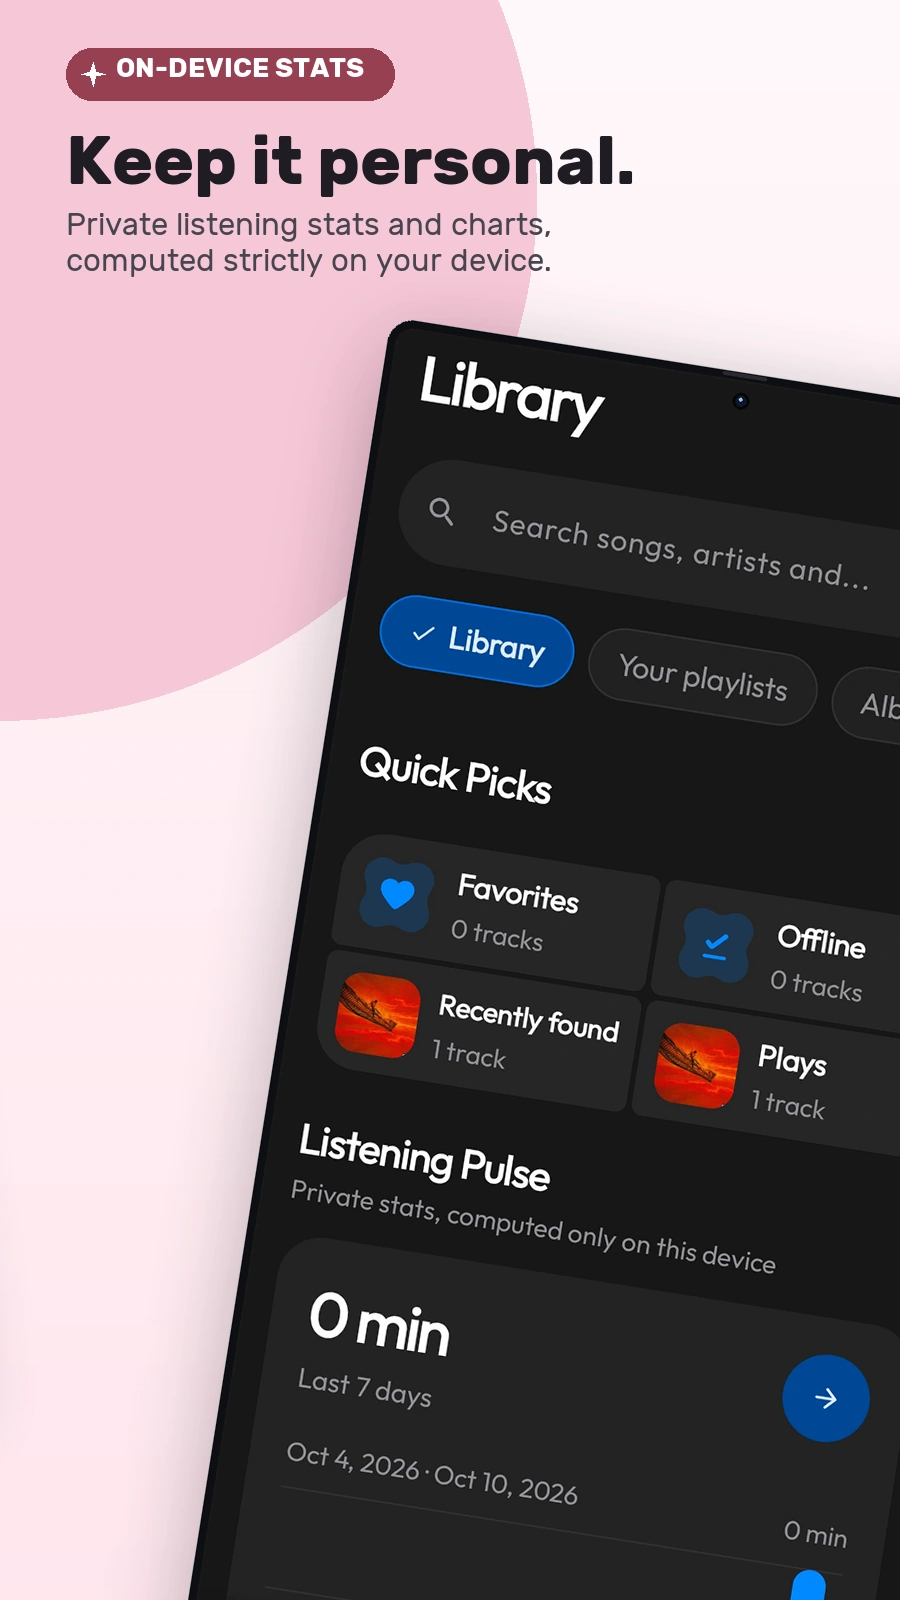
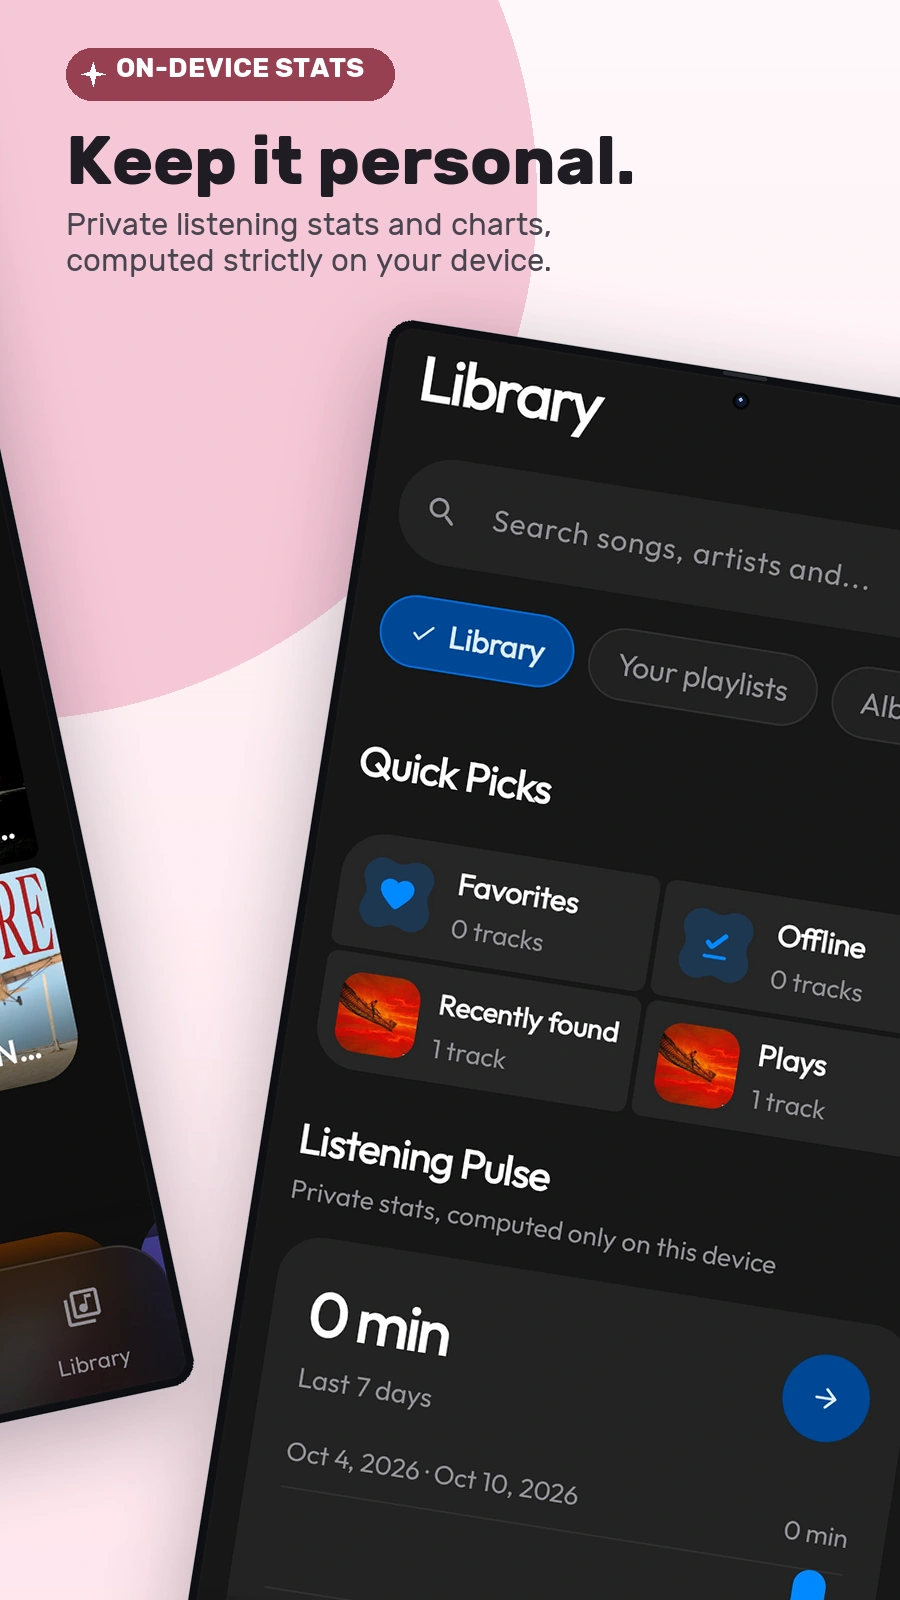
docs: restore paired orbit composition

Changed region(s): [[0.0, 0.25, 0.2178, 0.9375]]

diff --git a/scripts/generate_showcase_assets.py b/scripts/generate_showcase_assets.py
@@ -143,9 +143,9 @@ M3_PAIR_PALETTES = [
 M3_PHONE_OVERRIDES = {
     "Screenshot_20261012_193022_LEVYRA.jpg": {
         "target_w": 720,
-        "x": -35,
+        "x": 110,
         "y": -100,
-        "angle": 8,
+        "angle": 12,
     },
 }
 

diff --git a/README.md b/README.md
@@ -128,7 +128,7 @@ Enhanced Audio is on by default and can be turned off in Audio Settings. Technic
   <a href="docs/assets/showcase/cards/01_home.webp"><img src="docs/assets/showcase/cards/01_home.webp?v=m3-expressive-cut-v7" width="200" alt="Levyra home and personalized radio" /></a><a href="docs/assets/showcase/cards/02_stay_with_the_song.webp"><img src="docs/assets/showcase/cards/02_stay_with_the_song.webp?v=m3-expressive-cut-v7" width="200" alt="Levyra offline downloads with local audio files, artwork, and metadata" /></a><a href="docs/assets/showcase/cards/03_now_playing.webp"><img src="docs/assets/showcase/cards/03_now_playing.webp?v=m3-expressive-cut-v7" width="200" alt="Levyra synchronized lyrics" /></a><a href="docs/assets/showcase/cards/04_player_deck.webp"><img src="docs/assets/showcase/cards/04_player_deck.webp?v=m3-expressive-cut-v8" width="200" alt="Levyra customizable player decks" /></a><br>
   <a href="docs/assets/showcase/cards/05_explore_stage.webp"><img src="docs/assets/showcase/cards/05_explore_stage.webp?v=m3-expressive-cut-v7" width="200" alt="Levyra explore and fresh currents" /></a><a href="docs/assets/showcase/cards/06_levyra_mix_stage.webp"><img src="docs/assets/showcase/cards/06_levyra_mix_stage.webp?v=m3-expressive-cut-v7" width="200" alt="Levyra custom mix and live radio" /></a><a href="docs/assets/showcase/cards/07_genres.webp"><img src="docs/assets/showcase/cards/07_genres.webp?v=m3-expressive-cut-v7" width="200" alt="Levyra moods and genres" /></a><a href="docs/assets/showcase/cards/08_audio_tuning.webp"><img src="docs/assets/showcase/cards/08_audio_tuning.webp?v=m3-expressive-cut-v7" width="200" alt="Levyra audio tuning and playback engine" /></a><br>
   <a href="docs/assets/showcase/cards/09_album.webp"><img src="docs/assets/showcase/cards/09_album.webp?v=m3-expressive-cut-v7" width="200" alt="Levyra album details and tracklist" /></a><a href="docs/assets/showcase/cards/10_search.webp"><img src="docs/assets/showcase/cards/10_search.webp?v=m3-expressive-cut-v7" width="200" alt="Levyra instant search and suggestions" /></a><a href="docs/assets/showcase/cards/11_collections.webp"><img src="docs/assets/showcase/cards/11_collections.webp?v=m3-expressive-cut-v7" width="200" alt="Levyra curated collections and playlists" /></a><a href="docs/assets/showcase/cards/12_listening_rhythm.webp"><img src="docs/assets/showcase/cards/12_listening_rhythm.webp?v=m3-expressive-cut-v7" width="200" alt="Levyra listening rhythm and habits" /></a><br>
-  <a href="docs/assets/showcase/cards/13_your_orbit.webp"><img src="docs/assets/showcase/cards/13_your_orbit.webp?v=m3-expressive-cut-v11" width="200" alt="Levyra orbit and favorite tracks" /></a><a href="docs/assets/showcase/cards/14_listening_pulse.webp"><img src="docs/assets/showcase/cards/14_listening_pulse.webp?v=m3-expressive-cut-v11" width="200" alt="Levyra private listening stats and charts" /></a><a href="docs/assets/showcase/cards/15_artist_playlists.webp"><img src="docs/assets/showcase/cards/15_artist_playlists.webp?v=m3-expressive-cut-v7" width="200" alt="Levyra artist playlists and collections" /></a><a href="docs/assets/showcase/cards/16_settings_vault.webp"><img src="docs/assets/showcase/cards/16_settings_vault.webp?v=m3-expressive-cut-v7" width="200" alt="Levyra settings and local vault backups" /></a><br>
+  <a href="docs/assets/showcase/cards/13_your_orbit.webp"><img src="docs/assets/showcase/cards/13_your_orbit.webp?v=m3-expressive-cut-v12" width="200" alt="Levyra orbit and favorite tracks" /></a><a href="docs/assets/showcase/cards/14_listening_pulse.webp"><img src="docs/assets/showcase/cards/14_listening_pulse.webp?v=m3-expressive-cut-v12" width="200" alt="Levyra private listening stats and charts" /></a><a href="docs/assets/showcase/cards/15_artist_playlists.webp"><img src="docs/assets/showcase/cards/15_artist_playlists.webp?v=m3-expressive-cut-v7" width="200" alt="Levyra artist playlists and collections" /></a><a href="docs/assets/showcase/cards/16_settings_vault.webp"><img src="docs/assets/showcase/cards/16_settings_vault.webp?v=m3-expressive-cut-v7" width="200" alt="Levyra settings and local vault backups" /></a><br>
   <a href="docs/assets/showcase/cards/17_new_releases.webp"><img src="docs/assets/showcase/cards/17_new_releases.webp?v=m3-expressive-cut-v7" width="200" alt="Levyra new releases" /></a><a href="docs/assets/showcase/cards/18_artist_profile.webp"><img src="docs/assets/showcase/cards/18_artist_profile.webp?v=m3-expressive-cut-v7" width="200" alt="Levyra artist profile and discography" /></a><a href="docs/assets/showcase/cards/19_top_50.webp"><img src="docs/assets/showcase/cards/19_top_50.webp?v=m3-expressive-cut-v7" width="200" alt="Levyra Top 50 charts" /></a><a href="docs/assets/showcase/cards/20_levyra_jam.webp"><img src="docs/assets/showcase/cards/20_levyra_jam.webp?v=m3-expressive-cut-v7" width="200" alt="Levyra Jam collaborative listening on local Wi-Fi" /></a>
 </p>
 
